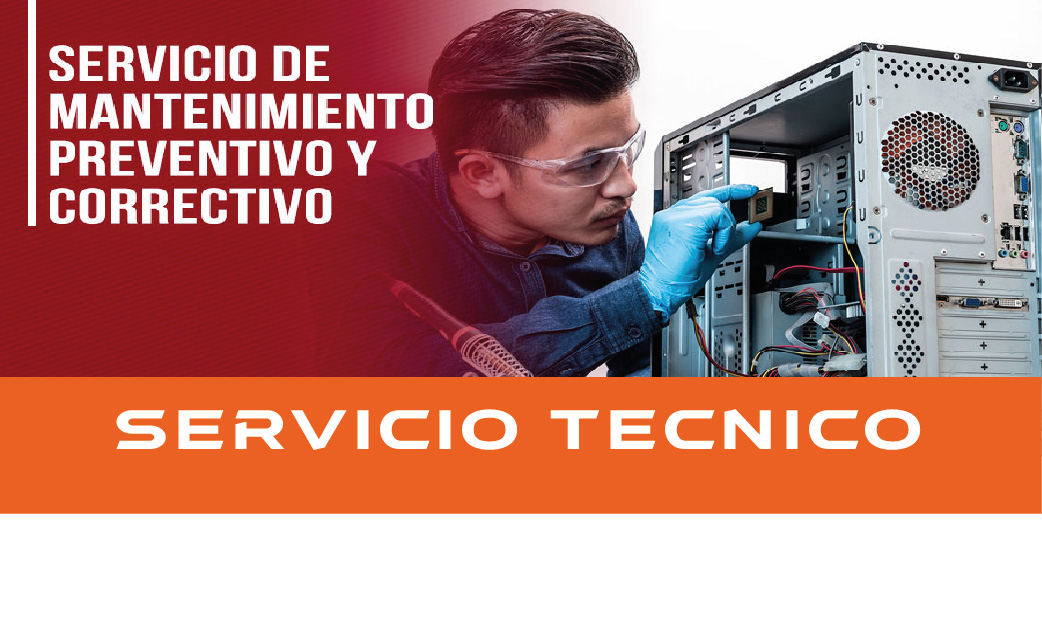
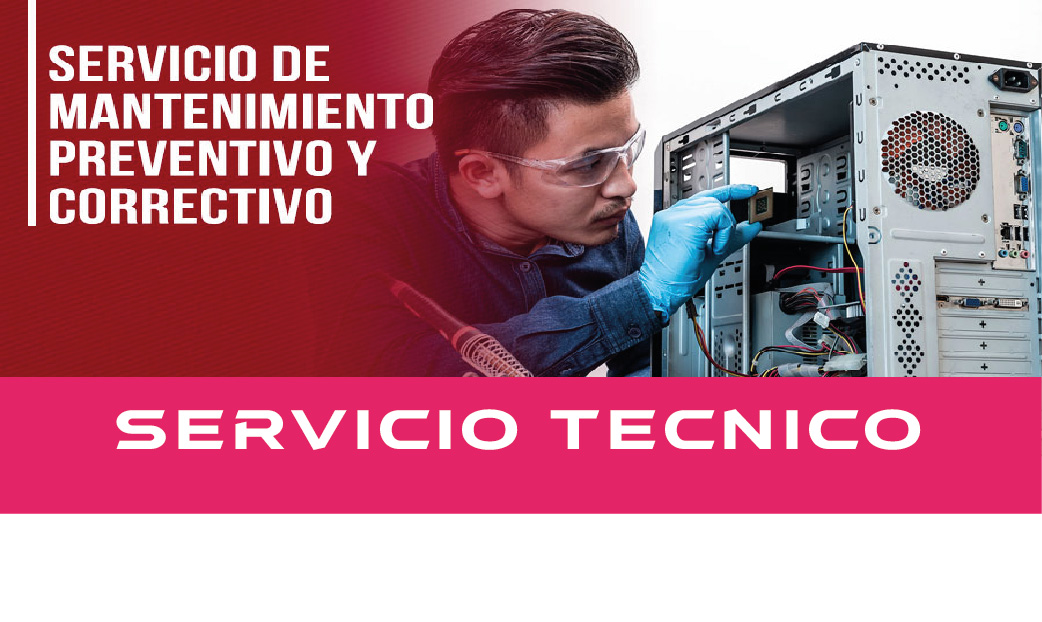
DSDSD
SDSD

Changed region(s): [[0.0, 0.5804, 1.0, 0.8248]]

diff --git a/css/style.css b/css/style.css
@@ -19,9 +19,6 @@ body{
     justify-content:center;
     padding:10px;
     color:var(--text);
-
-    /* control fondo imagen; */
-    background-image: url("../img/fondo/joker.jpg");
     background-size: cover;
     background-position: center;
     background-repeat: no-repeat;
@@ -31,7 +28,7 @@ body{
 
 .phone{ /*toda la estructura*/
     width:100%;
-    max-width:380px;
+    max-width:420px;
     /* background:#15c40f; color fondo verde*/
     /* border-radius:35px; */
     overflow:hidden;
@@ -51,8 +48,8 @@ body{
 }
 
 .avatar{ /*Control Logo*/
-    width:90px;
-    height:90px;
+    width:80px;
+    height:80px;
     border-radius:50%;
     /* border:4px solid #fff; */
     border: none;
@@ -70,51 +67,17 @@ body{
     /* opacity:.9; */
 }
 
-
 .titulo-principal {
   font-family: 'Michroma', sans-serif;
 }
-
 /* FIN HEADER ===== */
-
-/* ===== SOCIAL ===== */
-.social{ /*Control bloque Redes sociales*/
-    display:flex;
-    justify-content:center;
-    gap:20px;
-    margin: 1rem;
-}
-
-.social i{
-    width:20px;
-    height:20px;
-    border-radius:50%;
-    background:rgba(255,255,255,.15); 
-    display:flex;
-    align-items:center;
-    justify-content:center;
-    transition:.3s;
-    font-size: 1.2rem;
-    cursor:pointer;
-}
-
-.social i:hover{
-    transform:translateY(-3px);
-    background:rgba(255,255,255,.3);
-}
-
-/* .social svg{
-    width:25px;
-    fill:#fff;
-} */
-/* FIN SOCIAL ===== */
 
 /* 2 BOTONES ACTIONS  ===== */
 .actions{
     display:grid;
     grid-template-columns:1fr 1fr;
     gap:20px;
-    padding:25px 10px 30px;
+    padding:15px 5px 20px;
 }
 
 .action{
@@ -141,19 +104,11 @@ body{
     box-shadow:0 12px 22px rgba(0,0,0,.25);
     
 }
-/* 
-.action svg{
-    width:26px;
-    fill:#fff;
-    margin-bottom:6px;
-} */
-
 .action span{
     display:block;
     font-size:14px;
     font-weight:600;
 }
-
 
 /* BOTON-VIBRACION */
 .btn { 
@@ -188,8 +143,14 @@ body{
 @media(min-width:1600px){
     body{
         padding:40px;
+        background-image: url("../img/fondo/joker.jpg"); 
+        background-size: cover;
+    background-position: center;
+    background-repeat: no-repeat;
+    background-attachment: fixed;
     }
 }
+/* ===== FIN RESPONSIVE ===== */
 
 
 .container {
@@ -269,6 +230,7 @@ body{
       display:flex;
       flex-direction:column;
       align-items:flex-start;
+      padding-top: 5px;
     }
 
     .weather{
@@ -276,7 +238,7 @@ body{
       align-items:center;
       gap:12px;
       background:linear-gradient(135deg,#1e293b,#0f172a);
-      padding:15px 15px;
+      padding:10px 15px;
       border-radius:14px;
       box-shadow:0 8px 22px rgba(0,0,0,.4);
       animation:float 3s ease-in-out infinite;
@@ -309,18 +271,24 @@ body{
       color:var(--text);
       width:35px;
       height:35px;
-      border-radius:12px;
-      cursor:pointer;
+      border-radius:50%;
       display:flex;
       align-items:center;
       justify-content:center;
       box-shadow:0 8px 20px rgba(0,0,0,.2);
+      transition:.3s;
+      
     }
 
   .icon-btn i{
       font-size: 1rem;
     }
 
+      .icon-btn:hover{
+          transform:translateY(-3px);
+          cursor: pointer;
+    
+    }
 
     /* WEATHER TEXT */
 .weather-text{
@@ -354,12 +322,12 @@ body{
 }
 
 
-    /* footer{
+footer{
       text-align:center;
       font-size:17px;
       color:var(--text);
       line-height:1.6;
-    } */
+    } 
 
 
 
@@ -381,20 +349,3 @@ body{
   100% { transform: scale(1); }
 }
 
-
-
-
-/* css para mapa.html */
-.avatar{ /*Control Logo*/
-    width:85px;
-    height:85px;
-    border-radius:50%;
-    /* border:4px solid #fff; */
-    border: none;
-    object-fit: cover;
-}
-
-.header h1{ /*Texto COMPUGUED*/
-    margin:8px 0 4px;
-    font-size: 22px;
-}

diff --git a/index.html b/index.html
@@ -36,18 +36,16 @@
 
     </div>
 
-    <!--COMPARTIR BOTON -->  
+    <!--BOTONES R. SOCIALES -->  
 <div class="share-buttons">
-  <button class="icon-btn" onclick="sharePage()">
-    <i class="fa-sharp fa-solid fa-share-nodes"></i>
-  </button>
-
   <button class="icon-btn carro" onclick="goToMap()">
-    <i class="fa-solid fa-car"></i>
+    <i class="fa-brands fa-facebook"></i>
   </button>
-
+  <button class="icon-btn" onclick="goToMap()">
+<i class="fa-brands fa-instagram"></i>   
+  </button>
 </div>
-    
+<!--FIN BOTONES R. SOCIALES -->  
 
   </div>
 <!--FIN WIDGET CLIMA -->  
@@ -57,16 +55,8 @@
     <img src="img/logo/logofondoazul.png" class="avatar">
     <h1 class="titulo-principal">COMPUGUED</h1>
     <p>Asesoría y Venta de Computadoras, Laptops, Impresoras y Accesorios Tecnológicos</p>
-
-<!-- REDES SOCIALES -->
-    <!-- <div class="social">
-        <i class="fa-brands fa-instagram"></i>        
-        <i class="fa-brands fa-facebook"></i>
-        <i class="fa-brands fa-x-twitter"></i>
-    </div> -->
 </div>
-<!-- FIN LOGO -->
-<!-- FIN REDES SOCIALES -->
+
 
 <div class="container">
   <!-- SLIDER -->
@@ -80,7 +70,7 @@
         <img src="img/slider/3.jpg">
         <img src="img/slider/4.jpg">
         <img src="img/slider/5.jpg">
-        <img src="img/slider/6.jpg">
+        
       </div>
     </div>
 
@@ -102,9 +92,7 @@
     </a>
 </div>
 <!-- DOBLE BOTON PDF + WTZ -->
-<!-- <footer>
-    📌 7 de enero 1299,  esquina Pedro Ruiz <br>
-  </footer> -->
+<footer>📌 7 de enero 1299,  esquina Pedro Ruiz</footer>
 </div>
 <!--FIN ESTILO CELULAR -->
 
